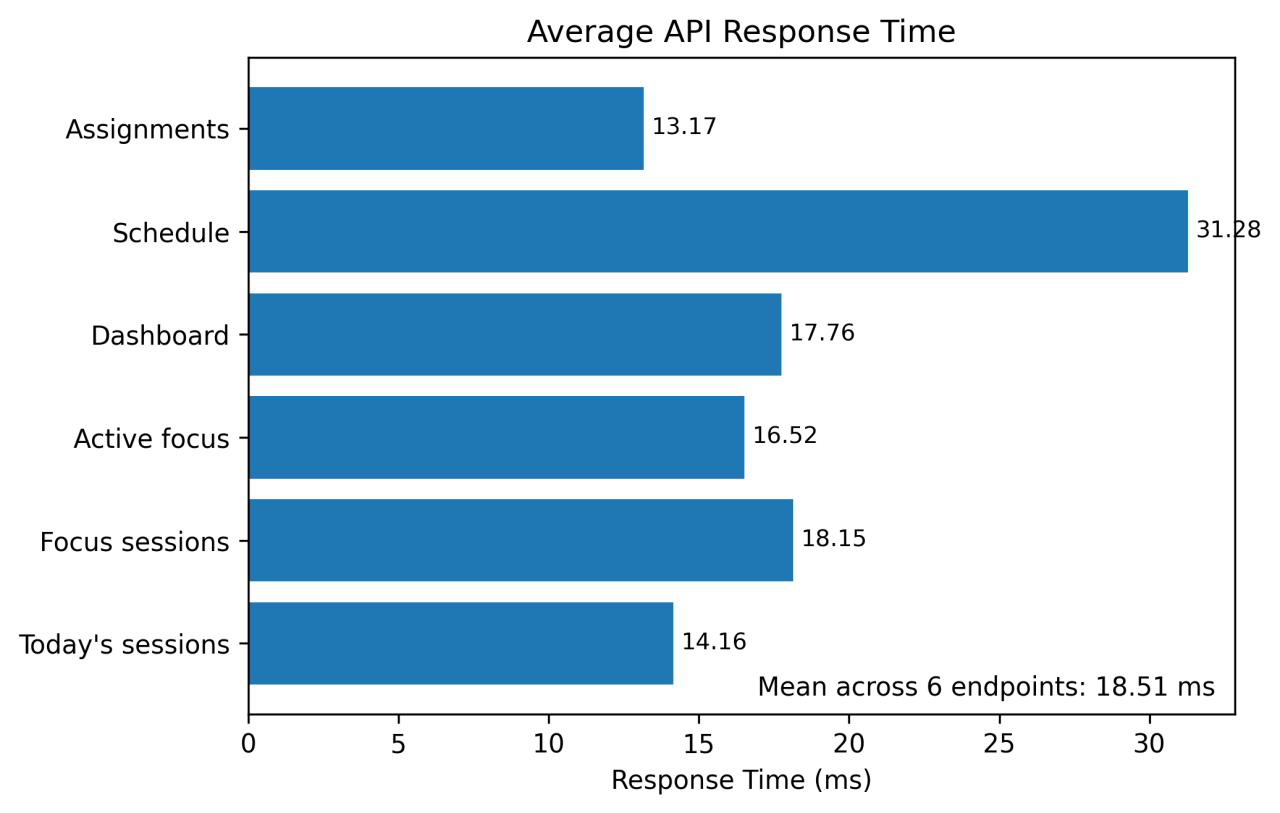
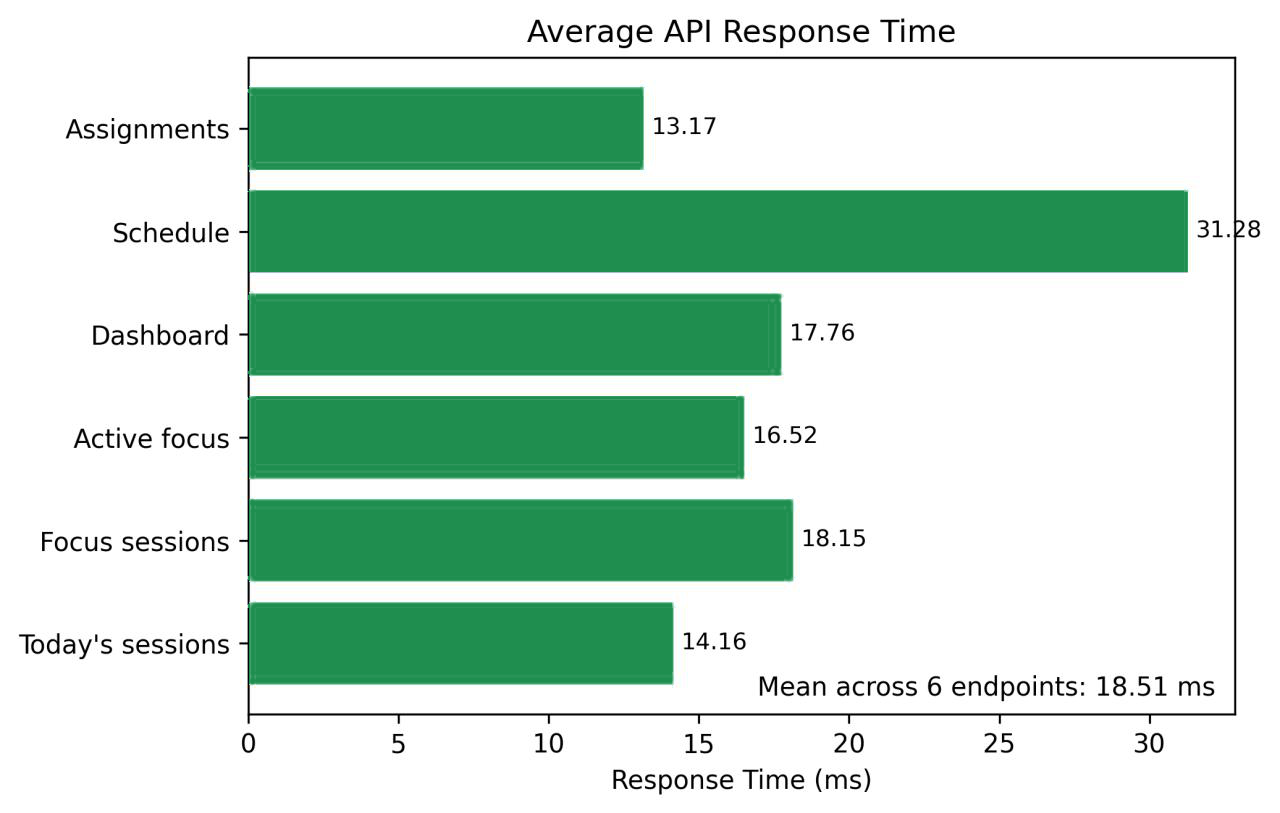
Change color theme

Changed region(s): [[0.1875, 0.0923, 0.9375, 0.861]]

diff --git a/poster/alu_poster_template.tex b/poster/alu_poster_template.tex
@@ -13,15 +13,15 @@
 \usepackage{tikz}
 \usetikzlibrary{calc,positioning}
 
-% ---------- ALU-inspired palette ----------
-\definecolor{ALUBlue}{HTML}{002E6D}
-\definecolor{ALUBlueDark}{HTML}{001F49}
-\definecolor{ALUBlueLight}{HTML}{EAF1FB}
-\definecolor{ALUBlueLine}{HTML}{BFD0EA}
-\definecolor{ALUText}{HTML}{1E2A38}
-\definecolor{ALUMuted}{HTML}{5C6B7A}
+% ---------- Green palette ----------
+\definecolor{ALUGreen}{HTML}{14532D}
+\definecolor{ALUGreenDark}{HTML}{0B3A1E}
+\definecolor{ALUGreenLight}{HTML}{EAF7EE}
+\definecolor{ALUGreenLine}{HTML}{BFE3CB}
+\definecolor{ALUText}{HTML}{1E2A22}
+\definecolor{ALUMuted}{HTML}{5C7A66}
 \definecolor{ALUWhite}{HTML}{FFFFFF}
-\definecolor{ALUAccent}{HTML}{D9E6F7}
+\definecolor{ALUAccent}{HTML}{D4F0DD}
 
 % ---------- Theme ----------
 \usetheme{Simple}
@@ -29,10 +29,10 @@
 \usebackgroundstyle{Default}
 
 \colorlet{backgroundcolor}{ALUWhite}
-\colorlet{framecolor}{ALUBlueLine}
+\colorlet{framecolor}{ALUGreenLine}
 \colorlet{titlefgcolor}{white}
-\colorlet{titlebgcolor}{ALUBlue}
-\colorlet{blocktitlebgcolor}{ALUBlue}
+\colorlet{titlebgcolor}{ALUGreen}
+\colorlet{blocktitlebgcolor}{ALUGreen}
 \colorlet{blocktitlefgcolor}{white}
 \colorlet{blockbodybgcolor}{white}
 \colorlet{blockbodyfgcolor}{ALUText}
@@ -49,10 +49,10 @@
     bodyoffsetx=0mm, bodyoffsety=3.5mm,
     bodyverticalshift=3.5mm, linewidth=1.0mm
 }{
-    \draw[rounded corners=16pt, line width=1.1mm, color=ALUBlueLine, fill=white]
+    \draw[rounded corners=16pt, line width=1.1mm, color=ALUGreenLine, fill=white]
       (blockbody.south west) rectangle (blockbody.north east);
     \ifBlockHasTitle
-      \draw[rounded corners=16pt, line width=0mm, fill=ALUBlue]
+      \draw[rounded corners=16pt, line width=0mm, fill=ALUGreen]
       (blocktitle.south west) rectangle (blocktitle.north east);
     \fi
 }
@@ -61,7 +61,7 @@
 % ---------- Helpers ----------
 \newcommand{\takeawaybox}[1]{%
   \begin{center}
-  \fcolorbox{ALUBlueLine}{ALUBlueLight}{
+  \fcolorbox{ALUGreenLine}{ALUGreenLight}{
     \parbox{0.94\linewidth}{\centering\bfseries\Large #1}
   }
   \end{center}
@@ -69,14 +69,14 @@
 
 \newcommand{\posterimageplaceholder}[2][0.95\linewidth]{%
   \begin{center}
-  \fcolorbox{ALUBlueLine}{ALUBlueLight}{
-    \parbox[c][3.4cm][c]{#1}{\centering\bfseries\Large #2\\[0.35em]\normalsize Replace with a polished figure, screenshot, architecture diagram, chart, or hardware photo}
+  \fcolorbox{ALUGreenLine}{ALUGreenLight}{
+    \parbox[c][6.6cm][c]{#1}{\centering\bfseries\Large #2\\[0.35em]\normalsize Replace with a polished figure, screenshot, architecture diagram, chart, or hardware photo}
   }
   \end{center}
 }
 
 \newcommand{\metricbox}[2]{%
-  \fcolorbox{ALUBlueLine}{ALUBlueLight}{
+  \fcolorbox{ALUGreenLine}{ALUGreenLight}{
     \parbox[c][2.9cm][c]{0.29\linewidth}{\centering\bfseries\LARGE #1\\[0.18em]\normalsize #2}
   }
 }
@@ -226,61 +226,58 @@ Iterate & what changed after evidence or testing \\
 
 \begin{center}
 \begin{minipage}{0.31\linewidth}\centering
-{\color{ALUBlue}\LARGE\bfseries 354/354}\\[-1mm]
+{\color{ALUGreen}\LARGE\bfseries 354/354}\\[-1mm]
 {\normalsize Tests passed}
 \end{minipage}\hfill
 \begin{minipage}{0.31\linewidth}\centering
-{\color{ALUBlue}\LARGE\bfseries 96\%}\\[-1mm]
+{\color{ALUGreen}\LARGE\bfseries 96\%}\\[-1mm]
 {\normalsize Task success}
 \end{minipage}\hfill
 \begin{minipage}{0.31\linewidth}\centering
-{\color{ALUBlue}\LARGE\bfseries 10}\\[-1mm]
+{\color{ALUGreen}\LARGE\bfseries 10}\\[-1mm]
 {\normalsize Pilot students}
 \end{minipage}
 \end{center}
 
-
 \begin{center}
-\fcolorbox{ALUBlueLine}{ALUBlueLight}{
+\fcolorbox{ALUGreenLine}{ALUGreenLight}{
 \begin{minipage}{0.92\linewidth}\centering
 {\normalsize\bfseries Average API response time:}
-{\color{ALUBlue}\bfseries 18.51 ms}\\[-1mm]
+{\color{ALUGreen}\bfseries 18.51 ms}\\[-1mm]
 {\small 6 unique API endpoints | 30 requests | 5 per endpoint}
 \end{minipage}}
 \end{center}
-
 
 \begin{center}
 {\normalsize\bfseries User feedback:}
 {\normalsize Students reported that the Pomodoro technique helped them focus more during study sessions.}
 \end{center}
 
-
 \begin{center}
-\includegraphics[width=0.28\linewidth]{automated_tests.png}\hspace{4em}
-\includegraphics[width=0.28\linewidth]{api_response_times.png}
-\end{center}
-
-
-\begin{center}
-{\color{ALUBlue}\Large\bfseries Demo Evidence}
+\includegraphics[width=0.25\linewidth]{automated_tests.png}\hspace{4em}
+\includegraphics[width=0.25\linewidth]{api_response_times.png}
 \end{center}
 
 \begin{center}
-\begin{minipage}[t]{0.31\linewidth}\centering
+{\color{ALUGreen}\Large\bfseries Demo Evidence}
+\end{center}
+
+\begin{center}
+\begin{minipage}[t]{0.29\linewidth}\centering
 \includegraphics[width=\linewidth]{canvas_import.png}\\[-1mm]
 {\small\bfseries 1. Canvas import}
 \end{minipage}\hfill
-\begin{minipage}[t]{0.31\linewidth}\centering
+\begin{minipage}[t]{0.29\linewidth}\centering
 \includegraphics[width=\linewidth]{daily_checkin.png}\\[-1mm]
 {\small\bfseries 2. Daily check-in}
 \end{minipage}\hfill
-\begin{minipage}[t]{0.31\linewidth}\centering
+\begin{minipage}[t]{0.29\linewidth}\centering
 \includegraphics[width=\linewidth]{assignments.png}\\[-1mm]
 {\small\bfseries 3. Assignments}
 \end{minipage}
 \end{center}
 }
+
 
 
 % ================= RIGHT =================
